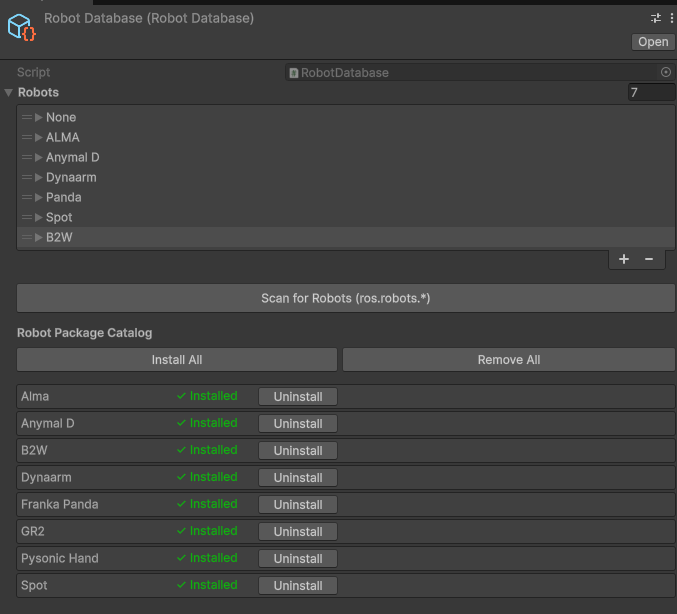
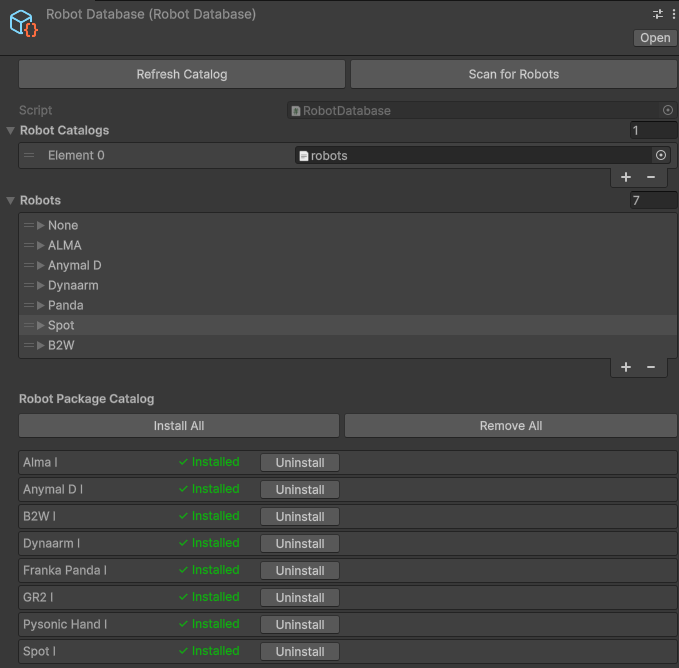
Added multiple catalogs

Changed region(s): [[0.0, 0.0, 1.0, 0.9902], [0.3722, 0.4642, 0.6514, 0.4951], [0.9306, 0.2785, 0.9926, 0.3094]]

diff --git a/RobotCore/Runtime/RobotDatabase.cs b/RobotCore/Runtime/RobotDatabase.cs
@@ -16,15 +16,23 @@ namespace RSL.Robots
     {
         public override void OnInspectorGUI()
         {
-            DrawDefaultInspector(); // Draw the list of robots
 
             RobotDatabase db = (RobotDatabase)target;
 
-            GUILayout.Space(10);
-            if (GUILayout.Button("Scan for Robots (ros.robots.*)", GUILayout.Height(30)))
+            GUILayout.BeginHorizontal();
+            if (GUILayout.Button("Refresh Catalog", GUILayout.Height(30)))
+            {
+                db.RefreshCatalogs();
+            }
+            if (GUILayout.Button("Scan for Robots", GUILayout.Height(30)))
             {
                 db.RefreshDatabase();
             }
+            GUILayout.EndHorizontal();
+            GUILayout.Space(10);
+
+            DrawDefaultInspector(); // Draw the list of robots
+
 
             GUILayout.Space(10);
             GUILayout.Label("Robot Package Catalog", EditorStyles.boldLabel);
@@ -126,43 +134,39 @@ namespace RSL.Robots
 
 #endif
 
-[System.Serializable]
-public struct RobotEntry
-{
-    public string name;
-    public string rootFrame;
-    public Sprite icon;
-    public GameObject prefab;
-
-    public override string ToString()
+    [System.Serializable]
+    public struct RobotEntry
     {
-        return name;
+        public string name;
+        public string rootFrame;
+        public Sprite icon;
+        public GameObject prefab;
+
+        public override string ToString()
+        {
+            return name;
+        }
     }
-}
 
     [CreateAssetMenu(fileName = "RobotDatabase", menuName = "Robots/RobotDatabase")]
     public class RobotDatabase : ScriptableObject
     {
-                public List<RobotEntry> robots = new List<RobotEntry>();
+        public List<TextAsset> robotCatalogs;
+        public List<RobotEntry> robots = new List<RobotEntry>();
         public Dictionary<string, RobotPackage> robotPackages = new Dictionary<string, RobotPackage>();
 
-        #if UNITY_EDITOR
+#if UNITY_EDITOR
         public void OnEnable()
         {// Inside your ScriptableObject or Editor script
             string packageId = "com.leggedrobotics.ros.robots.core";
             string relativePath = "Runtime/robots.json";
             string unityPath = $"Packages/{packageId}/{relativePath}";
 
+            robotCatalogs = new List<TextAsset>();
+
             if (File.Exists(unityPath))
             {
-                string jsonContent = File.ReadAllText(unityPath);
-                var robotPackagesData = JsonUtility.FromJson<RobotPackageList>(jsonContent);
-                robotPackages = new Dictionary<string, RobotPackage>();
-                foreach (var robot in robotPackagesData.robots)
-                {
-                    robotPackages[robot.id] = robot;
-                    
-                }
+                robotCatalogs.Add(AssetDatabase.LoadAssetAtPath<TextAsset>(unityPath));
             }
             RobotInstallerQueue.OnQueueCompleted += RefreshDatabase;
         }
@@ -249,6 +253,19 @@ public struct RobotEntry
             return packages != null && System.Array.Exists(packages, p => p.name == packageId);
         }
 
+        public void RefreshCatalogs()
+        {
+            foreach(TextAsset file in robotCatalogs)
+            {
+                var robotPackagesData = JsonUtility.FromJson<RobotPackageList>(file.text);
+                robotPackages = new Dictionary<string, RobotPackage>();
+                foreach (var robot in robotPackagesData.robots)
+                {
+                    robotPackages[robot.id] = robot;                
+                }
+            }
+        }
+
         public void RefreshDatabase()
         {
             robots.Clear();
@@ -286,6 +303,12 @@ public struct RobotEntry
             EditorUtility.SetDirty(this);
             AssetDatabase.SaveAssets();
         }
-        #endif
+
+        public void OnValidate()
+        {
+            RefreshCatalogs();
+            // RefreshDatabase();
+        }
+#endif
     }
 }

diff --git a/ReadMe.md b/ReadMe.md
@@ -8,7 +8,12 @@ To install, add the Robot Core package to your Unity project via the Unity Packa
 ```
 git@github.com:leggedrobotics/unity_ros_robots.git?path=RobotCore
 ```
-This will allow you to create Robot Database objects from the create menu: `Create > Robots > RobotDatabase`. Clicking on one of these objects will then use the data in [`robots.json`](RobotCore/Runtime/robots.json) to display the available robot packages and allow you to install them into your project via the Inspector UI.
+![Robot Database](/docs/images/robot_database.png)
+
+This will allow you to create Robot Database objects from the create menu: `Create > Robots > RobotDatabase`. Clicking on one of these objects will then use the data in [`robots.json`](RobotCore/Runtime/robots.json) to display the available robot packages and allow you to install them into your project via the Inspector UI. After installing, updating or removing a robot, you `Scan for Robots` again to refresh the data base list. In the default project the menus will use the RobotDatase object located at `Assets/Components/Robots/RobotDatabase.asset`.
+
+## Robot Catalog
+JSON files can be used to create catalogs of various robots, their dependancies and where to pull their prefabs from (either locally or from remotes). A sample one is provided at [robots.json](/RobotCore/Runtime/robots.json) which loads the below mentioned robots. Additional catalogs can be added using the `+` button in on the Robot Database inspector.
 
 ## Robots
 The following robot models are available in this package and can be installed via the Robot Database:
